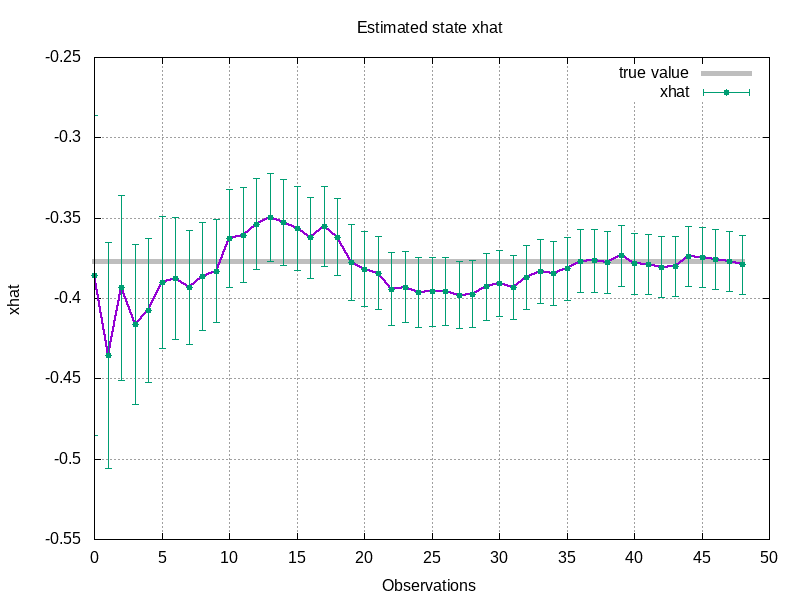
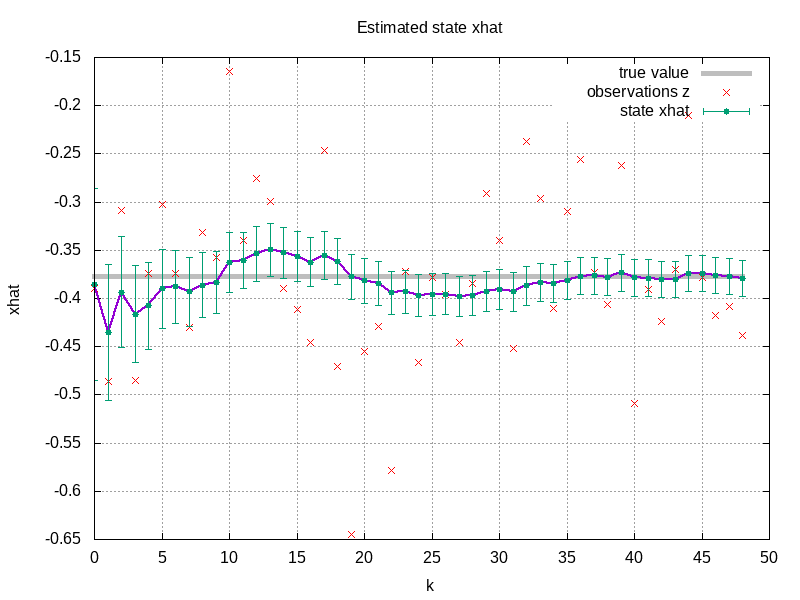
Added observations to plots

diff --git a/kalman_filter.cpp b/kalman_filter.cpp
@@ -75,8 +75,8 @@ int main() {
     P = (1-K)*P_minus;
 
     // Logging
-    if (i == 0) { logfile_stream << "# i K x_hat sqrt(P)\n"; }
-    LogValues(logfile_stream, std::vector<double> {double(i), K, x_hat, sqrt(P)});
+    if (i == 0) { logfile_stream << "# i K x_hat sqrt(P) z\n"; }
+    LogValues(logfile_stream, std::vector<double> {double(i), K, x_hat, sqrt(P), z[i]});
 
   }
 
